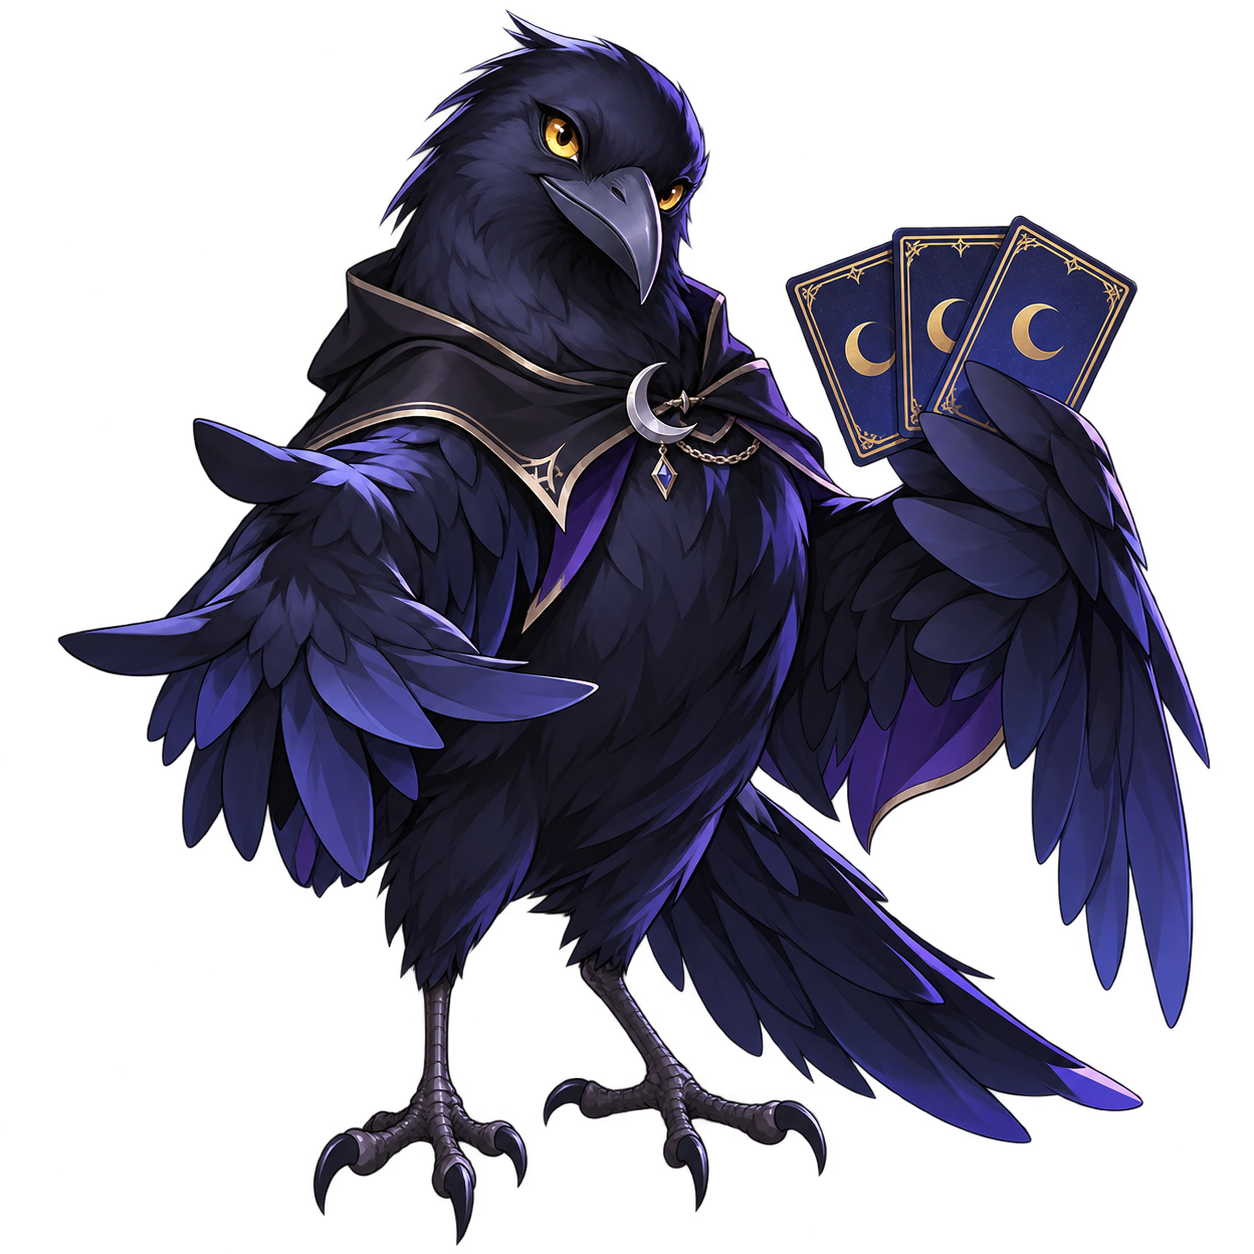
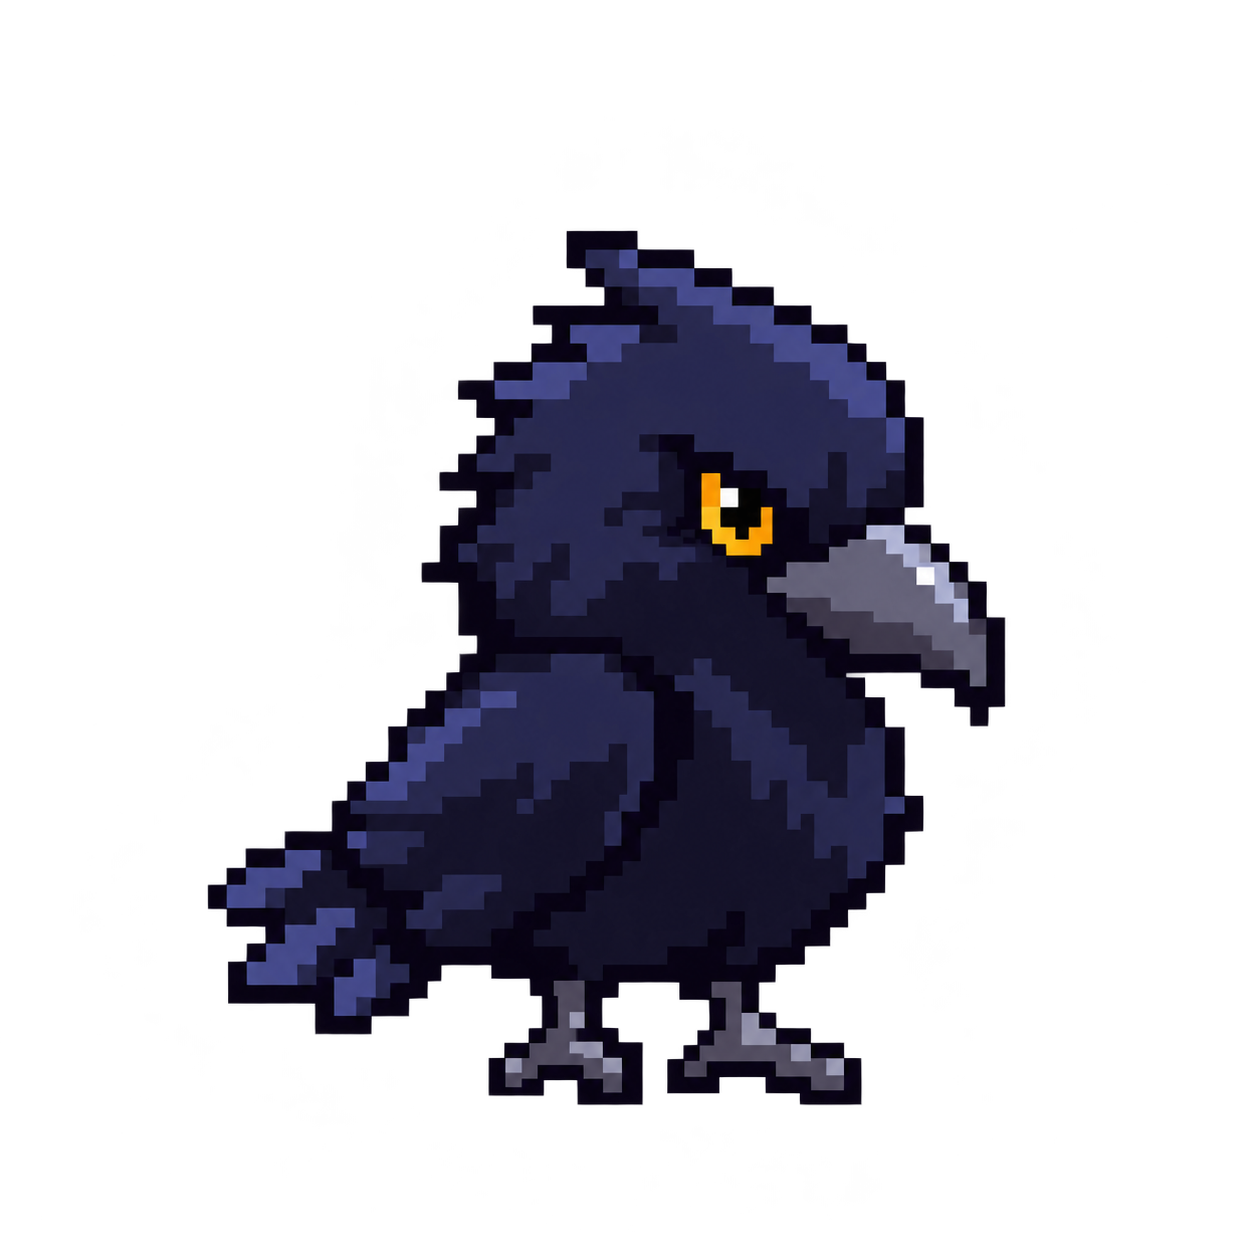
将狼人杀主持人换为简约像素乌鸦

diff --git a/src/werewolf-dm.js b/src/werewolf-dm.js
@@ -1,6 +1,6 @@
 import { roleLabel } from './werewolf-local-engine.js';
 
-export const CROW_DM_IMAGE = new URL('../assets/werewolf/crow-dm.png', import.meta.url).href;
+export const CROW_DM_IMAGE = new URL('../assets/werewolf/crow-dm.png?v=pixel-1', import.meta.url).href;
 const esc = value => String(value ?? '').replace(/[&<>"']/g, char => ({'&':'&amp;','<':'&lt;','>':'&gt;','"':'&quot;',"'":'&#39;'}[char]));
 
 export function crowHostMarkup(view, { dealing = false, revealed = false } = {}) {
@@ -16,7 +16,7 @@ export function crowHostMarkup(view, { dealing = false, revealed = false } = {})
   const message = dealing
     ? revealed ? '身份记住了吗？收好牌，我们准备进入第一个夜晚。' : '牌已发到各位面前。只翻开你自己的那张，别偷看邻座。'
     : view ? lines[view.phase] || '这一桌由我主持。收好身份，按阶段行动。' : '我是鸦，今晚由我发牌。入夜，请闭眼。';
-  return `<section class="wp-wwl-dm" aria-label="乌鸦主持人"><img src="${esc(CROW_DM_IMAGE)}" alt="拿着身份牌的乌鸦主持人鸦"><div><small>鸦 · 本桌主持</small><p>${esc(message)}</p></div></section>`;
+  return `<section class="wp-wwl-dm" aria-label="乌鸦主持人"><img src="${esc(CROW_DM_IMAGE)}" alt="像素乌鸦主持人鸦"><div><small>鸦 · 本桌主持</small><p>${esc(message)}</p></div></section>`;
 }
 
 export function crowDealMarkup(state) {

diff --git a/index.js b/index.js
@@ -62,7 +62,7 @@ function initWorldPhone() {
   ensureExternalStyle('world-phone-app-experience-realism-style', './app-experience-realism.css?build=app-experience-v1');
   ensureExternalStyle('world-phone-app-internal-motion-style', './app-internal-motion.css?build=app-experience-v1');
   ensureExternalStyle('world-phone-update-style', './update.css?build=update-v1');
-  ensureExternalStyle('world-phone-werewolf-local-style', './werewolf-local.css?build=werewolf-experience-v4');
+  ensureExternalStyle('world-phone-werewolf-local-style', './werewolf-local.css?build=werewolf-experience-v5');
   ensureExternalStyle('world-phone-social-realism-style', './social-realism.css?build=social-realism-v1');
   ensureExternalStyle('world-phone-themes-style', './phone-themes.css?build=multi-app-icons-v4');
   ensureExternalStyle('world-phone-utility-realism-style', './utility-realism.css?build=utility-realism-v2');
@@ -96,7 +96,7 @@ function initWorldPhone() {
   unmountSocialTools = mountSocialTools({ phone });
   unmountCommunicationApps = mountNativeCommunicationApps({ phone });
   unmountUpdateManager = mountWorldPhoneUpdateManager();
-  console.info('[世界小手机] 0.3.0-alpha.18 active · Phone Bridge v2 · SIM + local apps');
+  console.info('[世界小手机] 0.3.0-alpha.19 active · Phone Bridge v2 · SIM + local apps');
 }
 
 function bindAppReadyRefresh() {

diff --git a/werewolf-local.css b/werewolf-local.css
@@ -36,7 +36,7 @@
 @media (prefers-reduced-motion:reduce){.wp-wwl-thinking i{animation:none}}
 
 .wp-wwl-dm{display:flex;align-items:center;gap:12px;padding:12px;border:1px solid #eadca927;border-radius:18px;background:linear-gradient(130deg,#ffffff08,#77669515)}
-.wp-wwl-dm>img{width:96px;height:110px;flex:0 0 96px;object-fit:contain;filter:drop-shadow(0 5px 8px #0005)}
+.wp-wwl-dm>img{width:96px;height:110px;flex:0 0 96px;object-fit:contain;image-rendering:pixelated;filter:drop-shadow(0 5px 8px #0005)}
 .wp-wwl-dm>div{min-width:0}
 .wp-wwl-dm small{font-size:10px;letter-spacing:.08em;color:#ddce9d}
 .wp-wwl-dm p{margin:7px 0 0;color:#e6e2ef;font-size:12px;line-height:1.7;overflow-wrap:anywhere}

diff --git a/docs/werewolf.md b/docs/werewolf.md
@@ -14,7 +14,7 @@
 
 「对局信息」显示公开的夜晚结算及你的个人行动。女巫可查看解药、毒药余量，以及本夜救人、毒人或不用药的结果；预言家可回看本人查验；狼人可查看自己提交的目标。「我的行动记录」随对局保存，其他身份不会看到你的私有记录。旧存档可恢复当前夜晚的用药和查验信息；旧版没有保存的往夜目标无法恢复。
 
-乌鸦会随当前阶段给出主持提示。界面按你的身份展示允许查看的信息，游戏结束后公开身份与结果。
+简约像素乌鸦会随当前阶段给出主持提示。界面按你的身份展示允许查看的信息，游戏结束后公开身份与结果。
 
 「模型对局」使用酒馆可用模型，公开发言与夜间动作使用较短的回复长度。等待面板显示白天发言进度，夜晚不会公开其他玩家的行动者身份。
 

diff --git a/README.md b/README.md
@@ -1,6 +1,6 @@
 # 世界小手机
 
-用于 SillyTavern 的手机界面扩展，可在角色聊天旁使用桌面、锁屏、相册、社交互动、钱包、小游戏与自定义皮肤。当前版本：0.3.0-alpha.18。
+用于 SillyTavern 的手机界面扩展，可在角色聊天旁使用桌面、锁屏、相册、社交互动、钱包、小游戏与自定义皮肤。当前版本：0.3.0-alpha.19。
 
 ## 安装与更新
 
